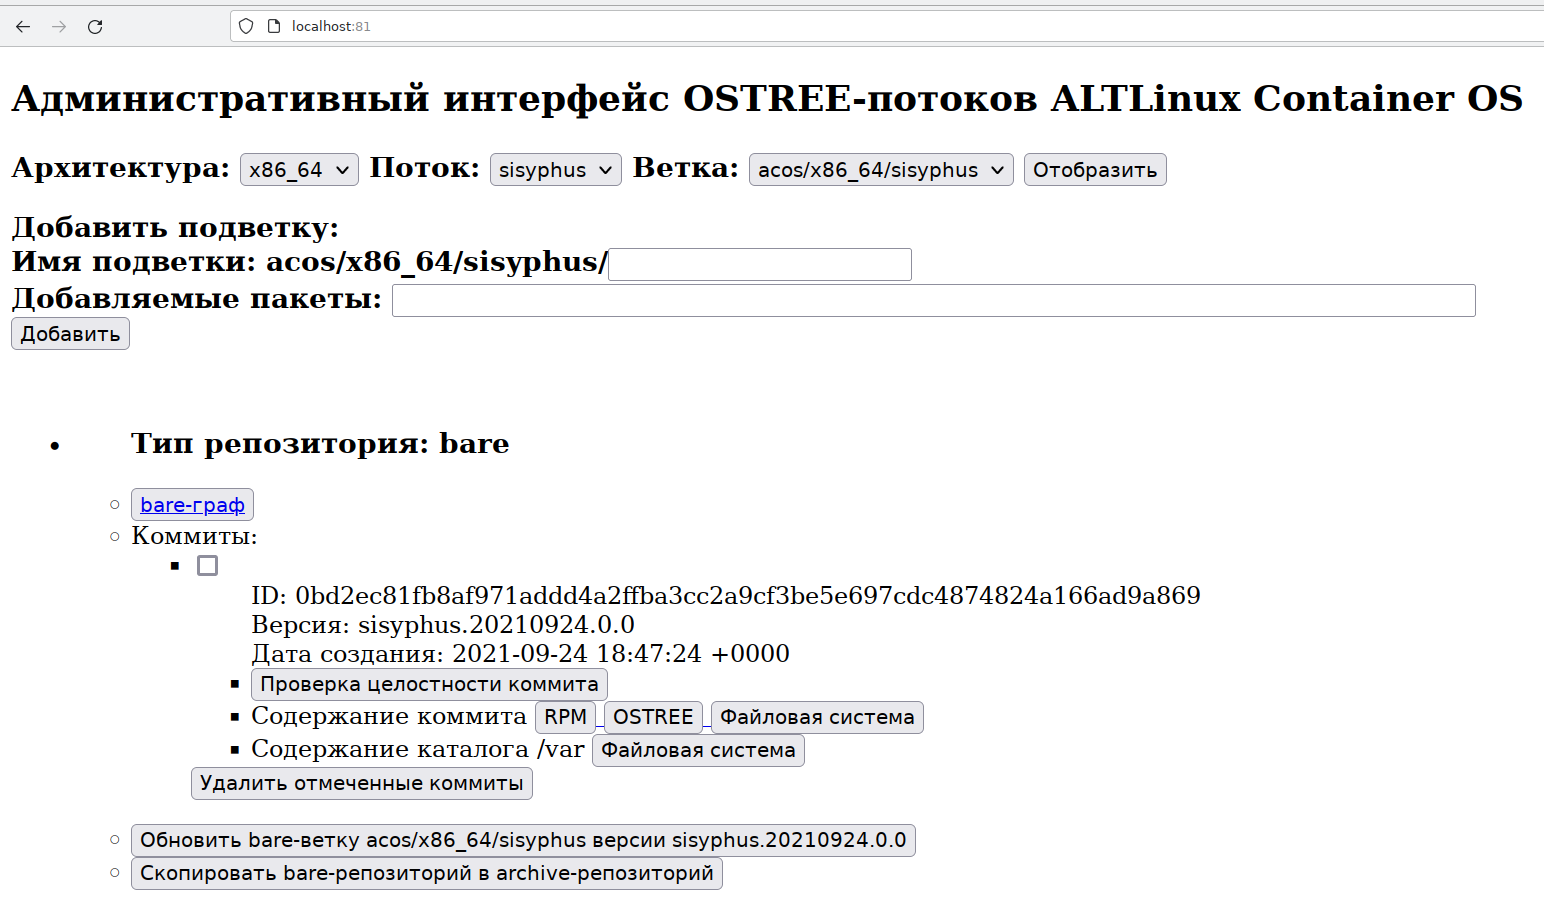
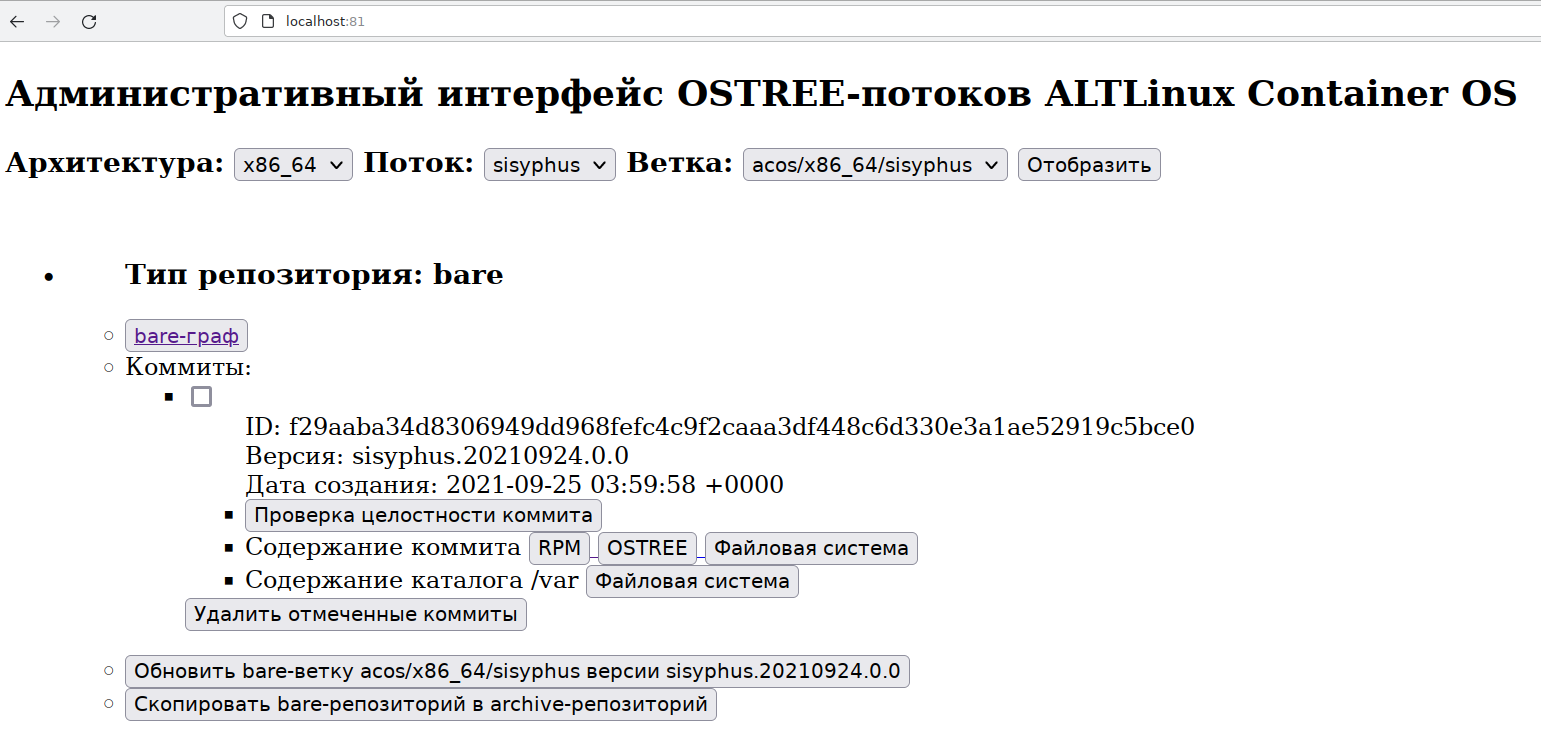
Add screenshots

diff --git a/ACOS/index.php b/ACOS/index.php
@@ -1,9 +1,12 @@
 <html lang='ru'>
 <head>
-<title>Инструкция пользователя ACOS</title>
+<title>Интерфейс пользователя ACOS</title>
 </head>
 <body>
 
-- <a href='/pdf/usermamual.pdf'>'>Инструкция пользователя ACOS</a>
-- <a href='streams.php'>Просмотр текущих версий потоков</a>
+<h2>Интерфейс пользователя ACOS</h2>
+<ul>
+  <li><a href='/pdf/usermanual.pdf'>Инструкция пользователя ACOS</a></li>
+  <li><a href='streams.php'>Текущие версии потоков</a></li>
+</ul>
 

diff --git a/index.php b/index.php
@@ -136,7 +136,7 @@ function markAfter(input) {
 if (count($refs) > 0) {
 ?>
 <p>
-<form action='ostree/install/' target='ostreeREST'>
+<!--form action='ostree/install/' target='ostreeREST'>
 <input type='hidden' name='ref' value='<?= $Ref?>' />
 <div class='addSubtef'>
 Добавить подветку:
@@ -147,7 +147,7 @@ if (count($refs) > 0) {
 <br />
 <button type='submit'>Добавить</button>
 </div>
-</form>
+</form-->
 <?php
   if (count($acosSubRefs) > 0) {
 ?>

diff --git a/ACOS/streams.php b/ACOS/streams.php
@@ -1,5 +1,7 @@
 <html lang='ru'>
 <head>
-<title>Просмотр текущих версий потоков</title>
+<title>Текущие версии потоков</title>
 </head>
 <body>
+
+<h2>Текущие версии потоков</h2>
